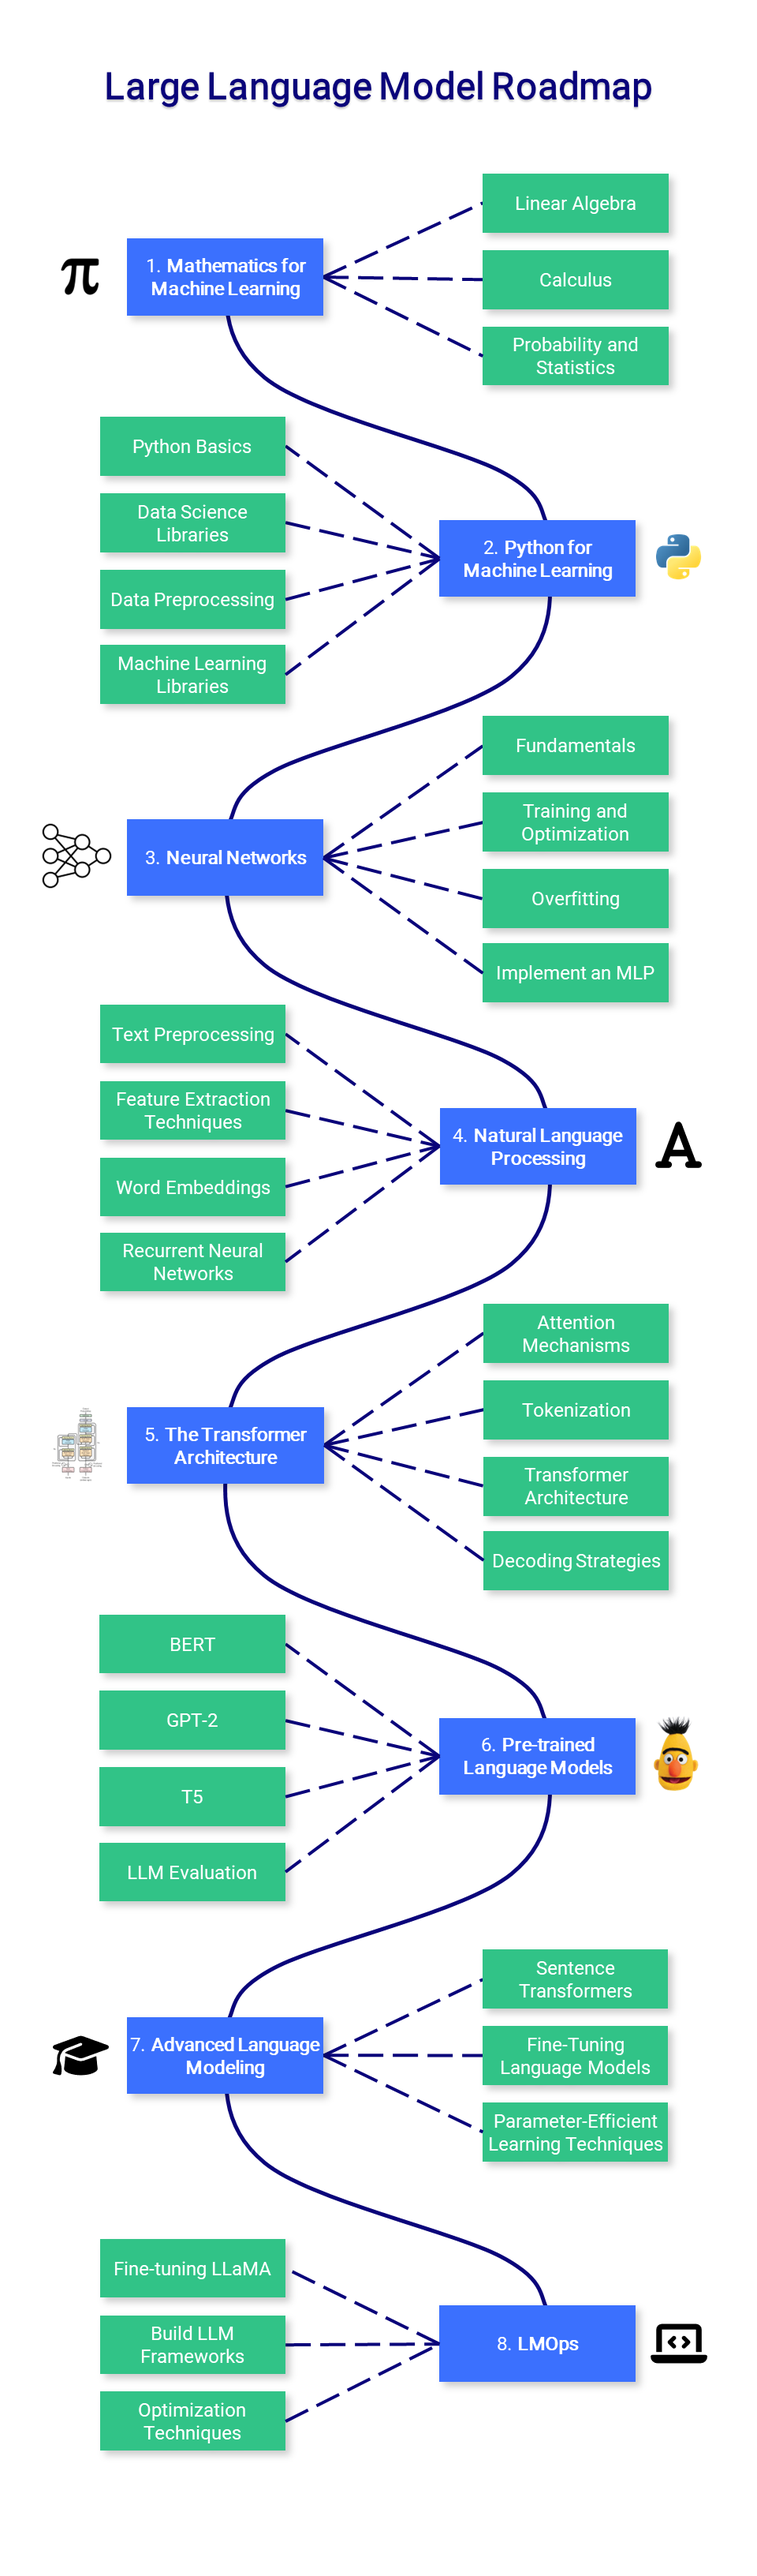
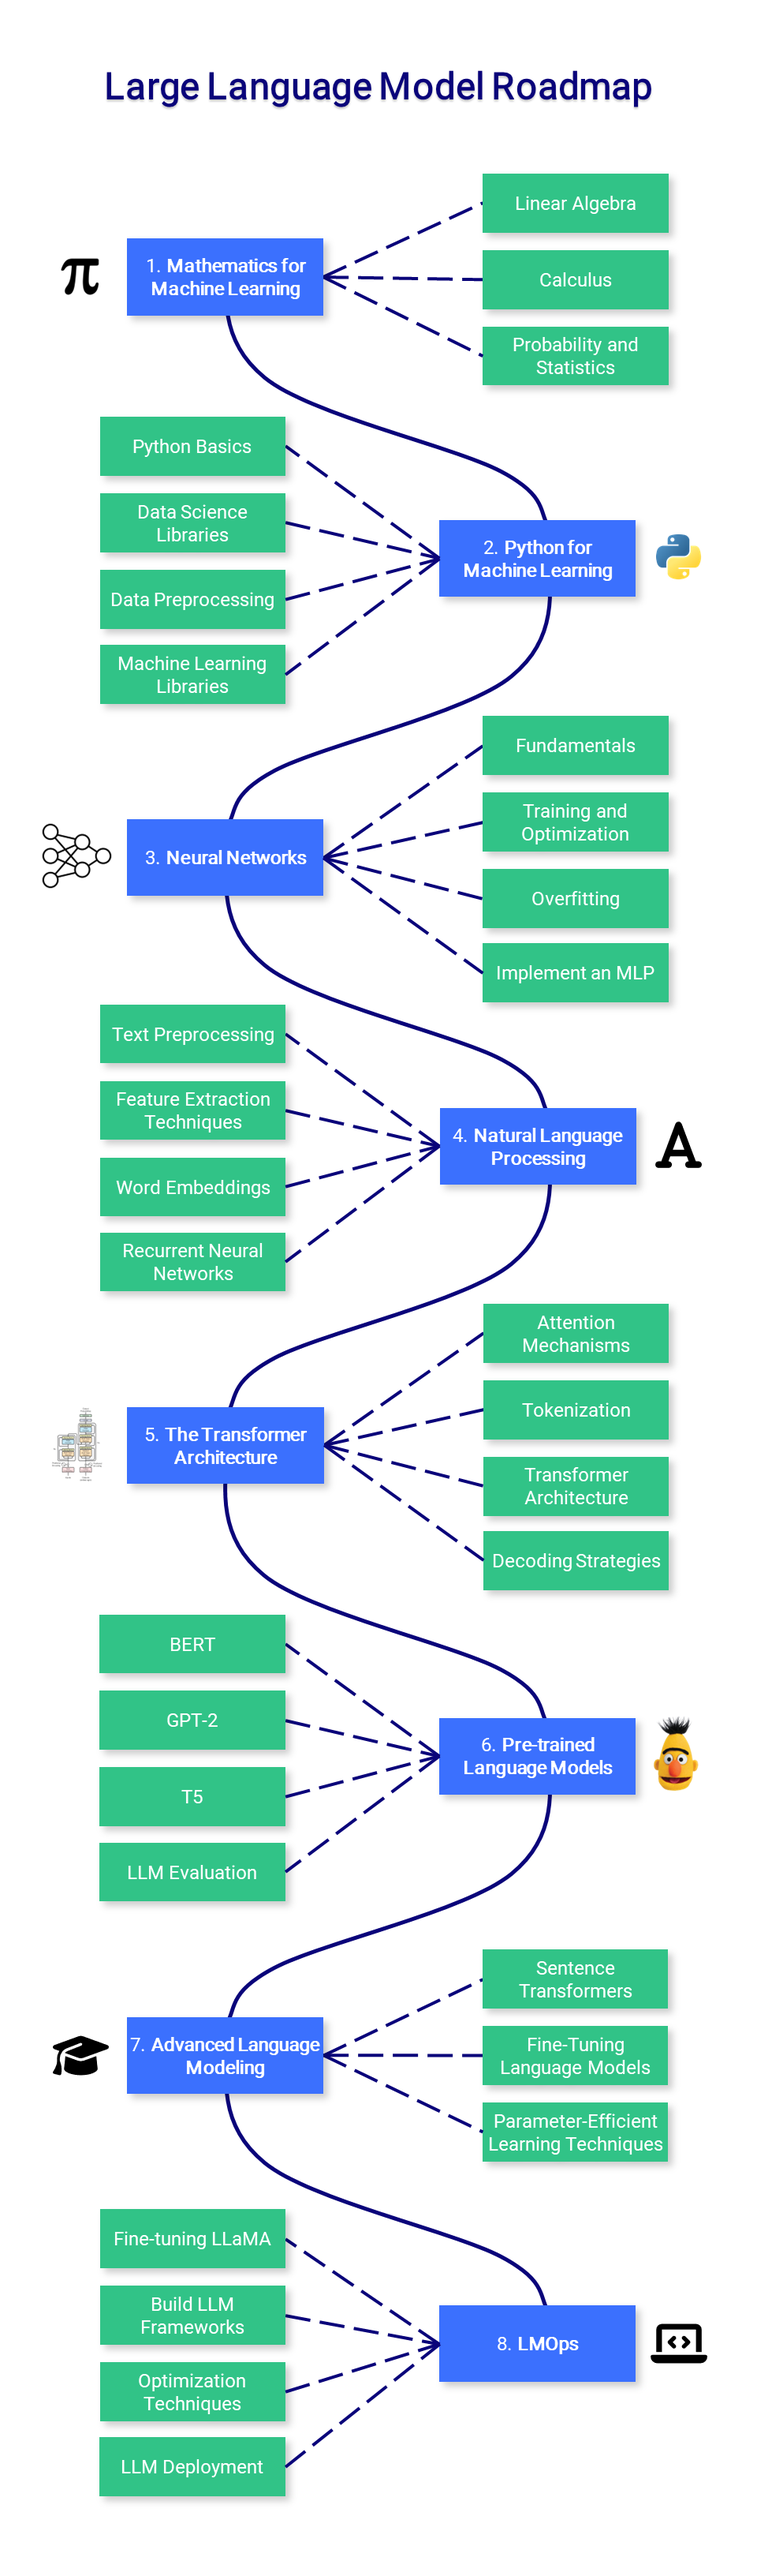
add LLM deployment

Changed region(s): [[0.125, 0.8438, 0.5625, 0.9688]]

diff --git a/README.md b/README.md
@@ -138,7 +138,7 @@ Pre-trained models like BERT, GPT-2, and T5 are powerful tools that can handle t
 To fine-tune your skills, learn how to create embeddings with sentence transformers, store them in a vector database, and use parameter-efficient supervised learning or RLHF to fine-tune LLMs.
 
 - **Sentence Transformers**: Sentence Transformers are models that can derive semantically meaningful embeddings for sentences, paragraphs, or texts. Learn how to store and retrieve these embeddings using an appropriate vector database for rapid similarity search.
-- **Fine-Tuning Language Models**: After understanding and using pre-trained models, the next step is to fine-tune them on a domain-specific dataset. It allows the model to be more accurate for certain tasks or domains, such as medical text analysis or sentiment analysis for movie reviews.
+- **Fine-Tuning Language Models**: After understanding and using pre-trained models, the next step is fine-tuning them on a domain-specific dataset. It allows the model to be more accurate for certain tasks or domains, such as medical text analysis or sentiment analysis for movie reviews.
 - **Parameter-Efficient Learning Techniques**: Explore more efficient ways to train or fine-tune your models without requiring massive amounts of data or computational resources, such as LoRA.
 
 📚 Resources:
@@ -155,9 +155,10 @@ To fine-tune your skills, learn how to create embeddings with sentence transform
 
 Finally, dive into Language Model Operations (LMOps), learn how to handle prompt engineering, build frameworks with Langchain and Llamaindex, and optimize inference with weight quantization, pruning, distillation, and more.
 
-- **Fine-tuning LLaMA**: Instruction fine-tuning has become extremely popular since the (accidental) release of LLaMA. The size of these models and the peculiarities of training them on questions and answers introduce more complexity and often require parameter-efficient learning techniques.
+- **Fine-tuning LLaMA**: Instruction fine-tuning has become extremely popular since the (accidental) release of LLaMA. The size of these models and the peculiarities of training them on instructions and answers introduce more complexity and often require parameter-efficient learning techniques such as QLoRA.
 - **Build LLM Frameworks**: LLMs are a new building block in system design, where the rest of the architecture is handled by libraries such as LangChain and LlamaIndex, allowing you to query vector databases, improving the model's memory or providing various tools.
 - **Optimization Techniques for Inference**: As the size of LLMs grows, it becomes increasingly important to apply optimization techniques to ensure that the models can be efficiently used for inference. Techniques include weight quantization (4-bit, 3-bit), pruning, knowledge distillation, etc.
+- **LLM deployment**: These models can be deployed locally like [llama.cpp](https://github.com/ggerganov/llama.cpp) or in the cloud like Hugging Face's [text generation inference](https://github.com/huggingface/text-generation-inference) or [vLLM](https://github.com/vllm-project/vllm).
 
 📚 Resources:
 
@@ -165,6 +166,7 @@ Finally, dive into Language Model Operations (LMOps), learn how to handle prompt
 - [Hugging Face - LLM.int8()](https://huggingface.co/blog/hf-bitsandbytes-integration): Introduction to 8-bit matrix multiplication with LLM.int8().
 - [Hugging Face - QLoRA](https://huggingface.co/blog/4bit-transformers-bitsandbytes): Blog post introducing QLoRA with notebooks to test it.
 - [Kanaries - AutoGPTQ](https://docs.kanaries.net/tutorials/ChatGPT/auto-gptq): Simple guide to use AutoGPTQ.
+- [Emerging Architectures for LLM Applications](https://a16z.com/2023/06/20/emerging-architectures-for-llm-applications/): overview of the LLM app stack.
 - [Pinecone - LangChain AI Handbook](https://www.pinecone.io/learn/langchain-intro/): Excellent free book on how to master the LangChain library.
 - [A Primer to using LlamaIndex](https://gpt-index.readthedocs.io/en/latest/guides/primer.html): Official guides to learn more about LlamaIndex.
 
@@ -174,6 +176,6 @@ Finally, dive into Language Model Operations (LMOps), learn how to handle prompt
 
 This roadmap was inspired by the excellent [DevOps Roadmap](https://github.com/milanm/DevOps-Roadmap) from Milan Milanović and Romano Roth.
 
-Special thanks to André Frade for his input and review of the first draft of this roadmap.
+Special thanks to Thomas Thelen for motivating me to create a roadmap, and André Frade for his input and review of the first draft.
 
 *Disclaimer: I am not affiliated with any sources listed here.*
